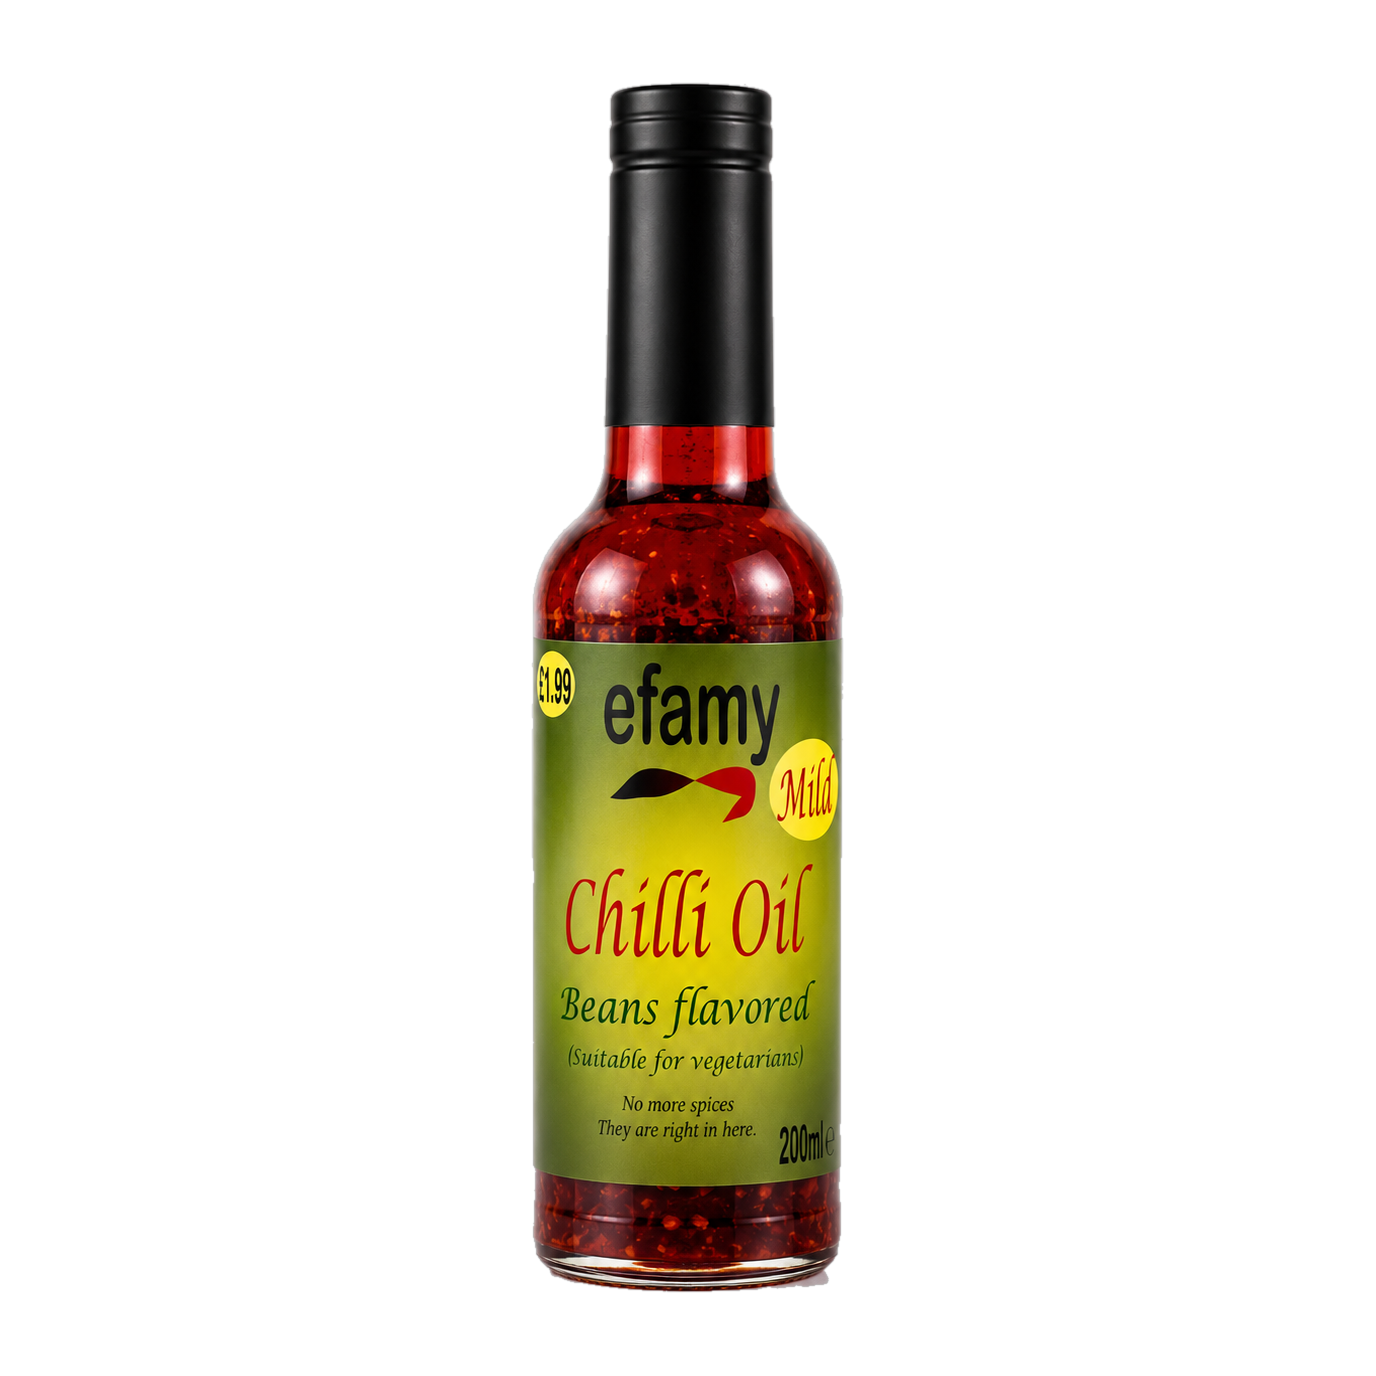
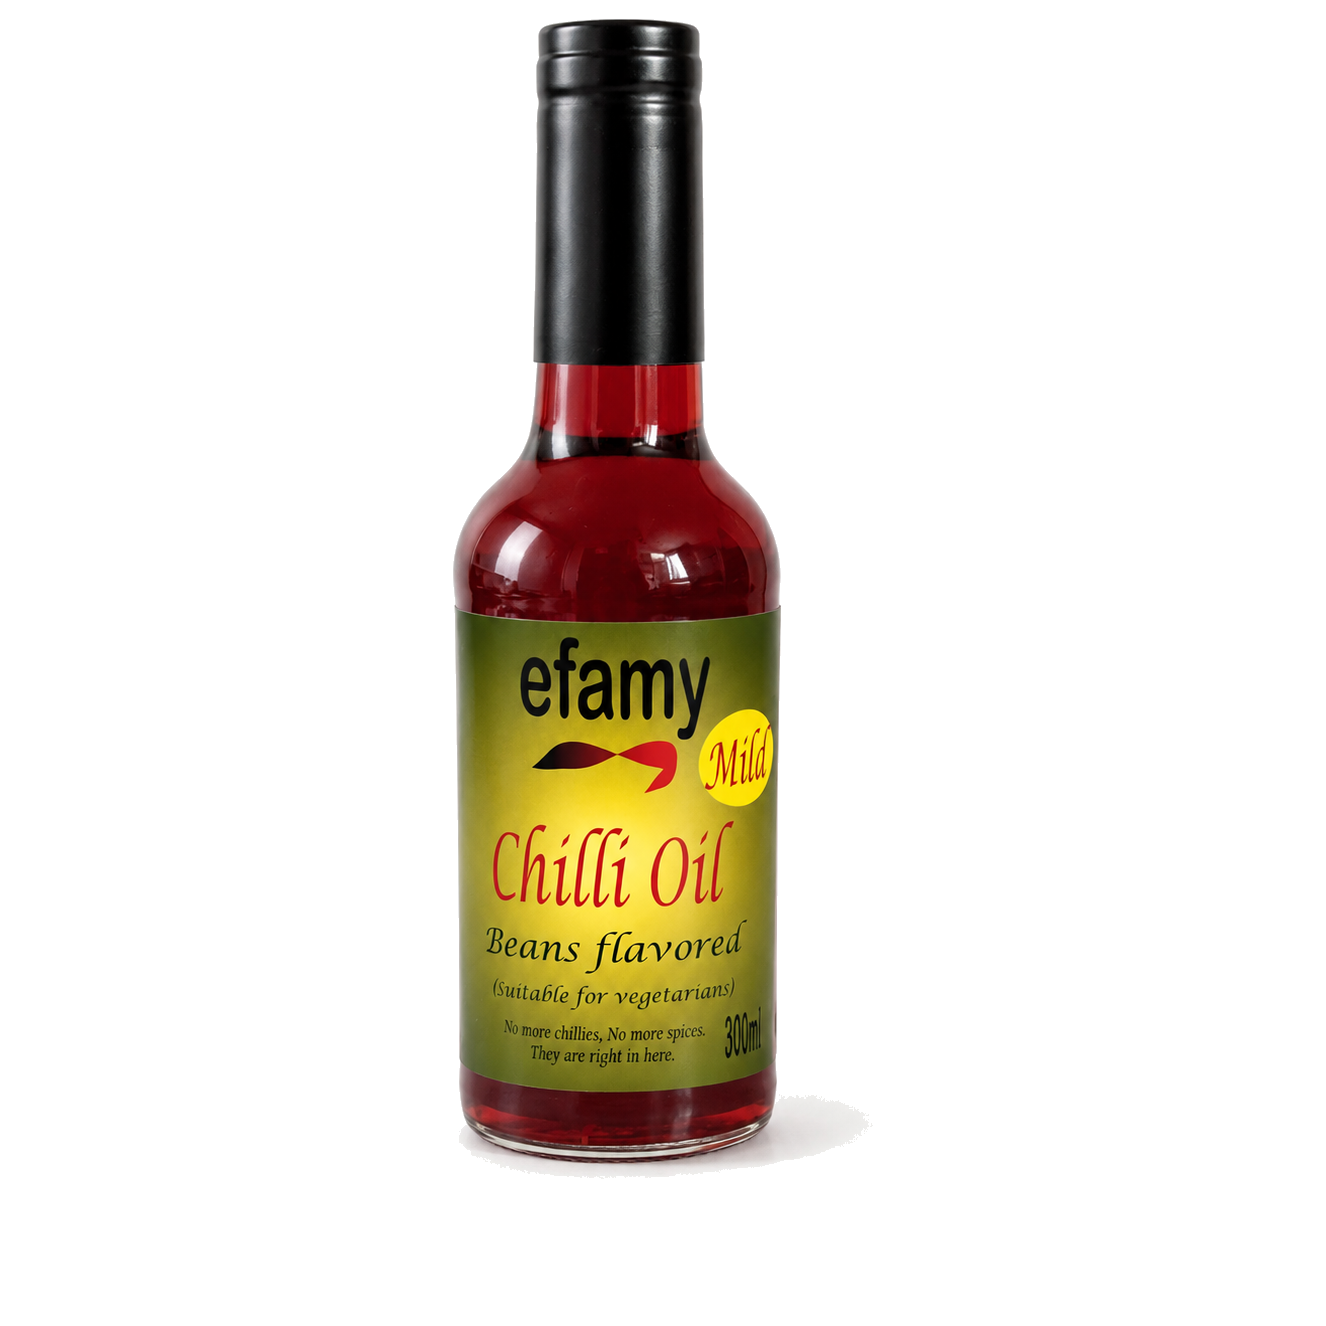
feat: new chilli oil photographs, at 300ml and their real strengths
The client replaced all seven bottles: no price sticker on the label,
and the clear oil rather than the one with chilli bits in it.

The new labels settle two open questions. They read 300ml, not 200ml.
And each carries its strength, which was never recorded: Beans, Beef,
Fish and Turkey are Mild, Goat and Pork are Hot, Chicken is Extra hot.

Framed square with the white keyed out, jar at 87.5% of the canvas, so
they sit at the same size as every other cutout.

Changed region(s): [[0.3401, 0.0, 0.6493, 0.9585]]

diff --git a/src/lib/catalogue-data.ts b/src/lib/catalogue-data.ts
@@ -67,6 +67,18 @@ function single(size: string, price: number): ProductVariant[] {
   return [{ size, price, inStock: true }];
 }
 
+/**
+ * One bottle, at the strength printed on its label.
+ *
+ * Read off the photographs the client supplied in August 2026: Beans, Beef,
+ * Fish and Turkey read Mild, Goat and Pork read Hot, Chicken reads Extra hot.
+ * Those labels also read 300ml and carry no price, which settles the older
+ * 200ml at £1.99 reading against the £2.99 on the price list.
+ */
+function bottle(heat: Heat): ProductVariant[] {
+  return [{ size: "300ml", heat, price: 299, inStock: true }];
+}
+
 export const categories: ProductCategory[] = [
   {
     id: "cat-chilli-sauces",
@@ -77,8 +89,8 @@ export const categories: ProductCategory[] = [
     image: {
       url: "/products/cutout/chicken-chilli-sauce-hot.png",
       alt: "Jar of Efamy chicken chilli sauce, hot",
-      width: 906,
-      height: 906,
+      width: 1303,
+      height: 1303,
     },
     productCount: 7,
   },
@@ -105,8 +117,8 @@ export const categories: ProductCategory[] = [
     image: {
       url: "/products/oils/beef-chilli-oil.png",
       alt: "Bottle of Efamy beef flavoured chilli oil",
-      width: 1403,
-      height: 1403,
+      width: 1498,
+      height: 1498,
     },
     productCount: 7,
   },
@@ -202,8 +214,8 @@ export const products: Product[] = [
       {
         url: "/products/cutout/chicken-chilli-sauce-hot.png",
         alt: "Jar of Efamy chicken chilli sauce, hot",
-        width: 906,
-        height: 906,
+        width: 1303,
+        height: 1303,
       },
     ],
     storage: STORAGE_SAUCE,
@@ -335,7 +347,7 @@ export const products: Product[] = [
     id: "beans-chilli-oil",
     slug: "beans-chilli-oil",
     name: "Beans Chilli Oil",
-    variants: single("200ml", 299),
+    variants: bottle("mild"),
     summary: "Beans flavoured, and suitable for vegetarians.",
     description:
       "Chilli oil with the flavour of our beans sauce, in a bottle you can pour.\\n\\nA spoonful over anything already cooked: rice, chips, eggs, noodles, a bowl of soup. No chopping, no cooking, no waiting.\\n\\nMade in Corby. No colours, additives or preservatives.",
@@ -343,8 +355,8 @@ export const products: Product[] = [
     image: {
       url: "/products/oils/beans-chilli-oil.png",
       alt: "Bottle of Efamy beans flavoured chilli oil",
-      width: 1376,
-      height: 1376,
+      width: 1326,
+      height: 1326,
     },
     storage: STORAGE_DRY,
     category: category.oils,
@@ -353,7 +365,7 @@ export const products: Product[] = [
     id: "beef-chilli-oil",
     slug: "beef-chilli-oil",
     name: "Beef Chilli Oil",
-    variants: single("200ml", 299),
+    variants: bottle("mild"),
     summary: "Beef flavoured, for anything off the grill.",
     description:
       "Chilli oil with the flavour of our beef sauce, in a bottle you can pour.\\n\\nA spoonful over anything already cooked: rice, chips, eggs, noodles, a bowl of soup. No chopping, no cooking, no waiting.\\n\\nMade in Corby. No colours, additives or preservatives.",
@@ -361,8 +373,8 @@ export const products: Product[] = [
     image: {
       url: "/products/oils/beef-chilli-oil.png",
       alt: "Bottle of Efamy beef flavoured chilli oil",
-      width: 1403,
-      height: 1403,
+      width: 1498,
+      height: 1498,
     },
     storage: STORAGE_DRY,
     category: category.oils,
@@ -371,7 +383,7 @@ export const products: Product[] = [
     id: "chicken-chilli-oil",
     slug: "chicken-chilli-oil",
     name: "Chicken Chilli Oil",
-    variants: single("200ml", 299),
+    variants: bottle("extra-hot"),
     summary: "Chicken flavoured, for rice, chips and roast dinners.",
     description:
       "Chilli oil with the flavour of our chicken sauce, in a bottle you can pour.\\n\\nA spoonful over anything already cooked: rice, chips, eggs, noodles, a bowl of soup. No chopping, no cooking, no waiting.\\n\\nMade in Corby. No colours, additives or preservatives.",
@@ -379,8 +391,8 @@ export const products: Product[] = [
     image: {
       url: "/products/oils/chicken-chilli-oil.png",
       alt: "Bottle of Efamy chicken flavoured chilli oil",
-      width: 1222,
-      height: 1222,
+      width: 1326,
+      height: 1326,
     },
     storage: STORAGE_DRY,
     category: category.oils,
@@ -389,7 +401,7 @@ export const products: Product[] = [
     id: "fish-chilli-oil",
     slug: "fish-chilli-oil",
     name: "Fish Chilli Oil",
-    variants: single("200ml", 299),
+    variants: bottle("mild"),
     summary: "Fish flavoured, for kenkey, grilled fish and salads.",
     description:
       "Chilli oil with the flavour of our fish sauce, in a bottle you can pour.\\n\\nA spoonful over anything already cooked: rice, chips, eggs, noodles, a bowl of soup. No chopping, no cooking, no waiting.\\n\\nMade in Corby. No colours, additives or preservatives.",
@@ -398,8 +410,8 @@ export const products: Product[] = [
     image: {
       url: "/products/oils/fish-chilli-oil.png",
       alt: "Bottle of Efamy fish flavoured chilli oil",
-      width: 1243,
-      height: 1243,
+      width: 1317,
+      height: 1317,
     },
     storage: STORAGE_DRY,
     category: category.oils,
@@ -408,7 +420,7 @@ export const products: Product[] = [
     id: "goat-chilli-oil",
     slug: "goat-chilli-oil",
     name: "Goat Chilli Oil",
-    variants: single("200ml", 299),
+    variants: bottle("hot"),
     summary: "Goat flavoured, for yam, rice and stews.",
     description:
       "Chilli oil with the flavour of our goat sauce, in a bottle you can pour.\\n\\nA spoonful over anything already cooked: rice, chips, eggs, noodles, a bowl of soup. No chopping, no cooking, no waiting.\\n\\nMade in Corby. No colours, additives or preservatives.",
@@ -416,8 +428,8 @@ export const products: Product[] = [
     image: {
       url: "/products/oils/goat-chilli-oil.png",
       alt: "Bottle of Efamy goat flavoured chilli oil",
-      width: 1362,
-      height: 1362,
+      width: 1330,
+      height: 1330,
     },
     storage: STORAGE_DRY,
     category: category.oils,
@@ -426,7 +438,7 @@ export const products: Product[] = [
     id: "pork-chilli-oil",
     slug: "pork-chilli-oil",
     name: "Pork Chilli Oil",
-    variants: single("200ml", 299),
+    variants: bottle("hot"),
     summary: "Pork flavoured, for barbecues and fried plantain.",
     description:
       "Chilli oil with the flavour of our pork sauce, in a bottle you can pour.\\n\\nA spoonful over anything already cooked: rice, chips, eggs, noodles, a bowl of soup. No chopping, no cooking, no waiting.\\n\\nMade in Corby. No colours, additives or preservatives.",
@@ -434,8 +446,8 @@ export const products: Product[] = [
     image: {
       url: "/products/oils/pork-chilli-oil.png",
       alt: "Bottle of Efamy pork flavoured chilli oil",
-      width: 1260,
-      height: 1260,
+      width: 1315,
+      height: 1315,
     },
     storage: STORAGE_DRY,
     category: category.oils,
@@ -444,7 +456,7 @@ export const products: Product[] = [
     id: "turkey-chilli-oil",
     slug: "turkey-chilli-oil",
     name: "Turkey Chilli Oil",
-    variants: single("200ml", 299),
+    variants: bottle("mild"),
     summary: "Turkey flavoured, for pasta, rice and roast dinners.",
     description:
       "Chilli oil with the flavour of our turkey sauce, in a bottle you can pour.\\n\\nA spoonful over anything already cooked: rice, chips, eggs, noodles, a bowl of soup. No chopping, no cooking, no waiting.\\n\\nMade in Corby. No colours, additives or preservatives.",
@@ -452,8 +464,8 @@ export const products: Product[] = [
     image: {
       url: "/products/oils/turkey-chilli-oil.png",
       alt: "Bottle of Efamy turkey flavoured chilli oil",
-      width: 1231,
-      height: 1231,
+      width: 1307,
+      height: 1307,
     },
     storage: STORAGE_DRY,
     category: category.oils,
@@ -527,8 +539,8 @@ export const products: Product[] = [
     image: {
       url: "/products/cutout/coat-and-cook.png",
       alt: "Jar of Efamy Coat & Cook seasoned coating mix, 250g",
-      width: 991,
-      height: 991,
+      width: 1224,
+      height: 1224,
     },
     images: [
       {
